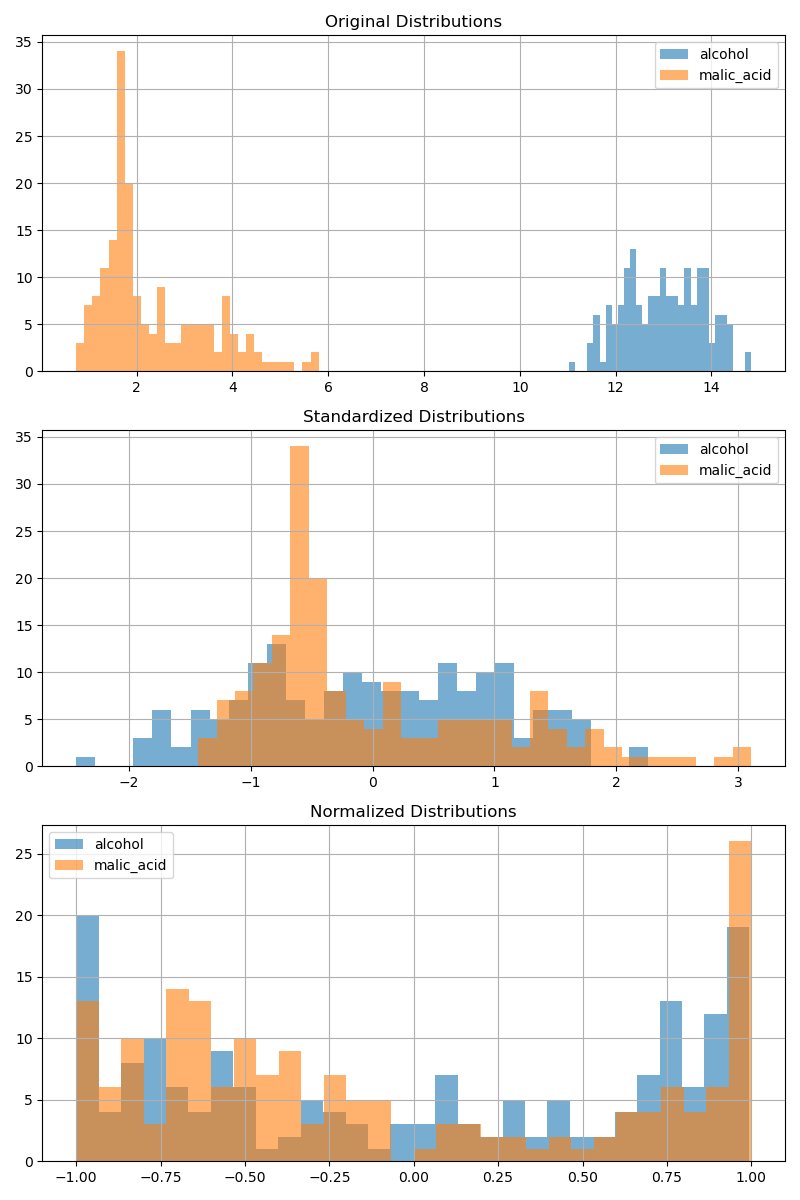
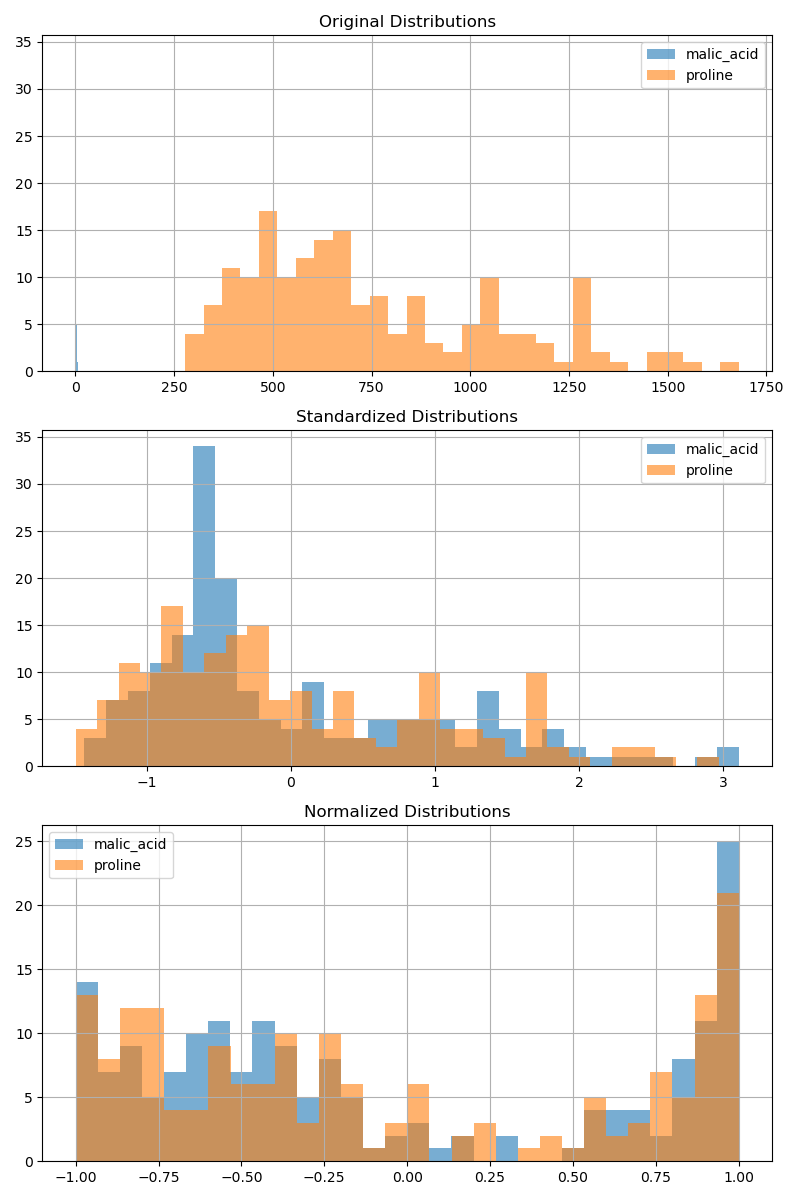
Update One-vs-Rest script: enhance data loading and visualization of feature scaling

diff --git a/scripts/run_one_vs_rest.py b/scripts/run_one_vs_rest.py
@@ -22,24 +22,28 @@ def main():
     results_dir = Path("docs/task_ovr_wine_results")
     ensure_directory(results_dir)
 
-    # load wine dataset
-    X, y = load_wine_data()
+    # load raw data for demonstration
+    data = load_wine()
+    df_raw = pd.DataFrame(data.data, columns=data.feature_names)
 
-    # select two features for demonstration
-    feature_names = load_wine().feature_names
-    demo_feats = [feature_names[0], feature_names[1]]  # e.g. ['alcohol', 'malic_acid']
-    df = pd.DataFrame(X, columns=feature_names)[demo_feats]
+    # select two features with very different scales
+    demo_feats = ["malic_acid", "proline"]
 
-    # original
+    # prepare DataFrame for demo
+    df = df_raw[demo_feats]
+
+    # original distributions
     df_orig = df.copy()
-    # standardized
+
+    # standardized (mean=0, std=1)
     scaler = StandardScaler()
     df_std = pd.DataFrame(scaler.fit_transform(df), columns=demo_feats)
-    # normalized
+
+    # normalized (each sample to unit length)
     normalizer = Normalizer(norm="l2")
     df_norm = pd.DataFrame(normalizer.fit_transform(df_std), columns=demo_feats)
 
-    # plot distributions
+    # plot distributions before and after
     fig, axes = plt.subplots(3, 1, figsize=(8, 12))
     for ax, dataset, title in zip(
         axes,
@@ -60,7 +64,8 @@ def main():
     plt.savefig(results_dir / "scaling_normalization_demo.png")
     plt.close()
 
-    # split into train/test
+    # now load and split for modeling
+    X, y = load_wine_data()
     X_train, X_test, y_train, y_test = train_test_split(
         X, y, test_size=0.2, random_state=42, stratify=y
     )
